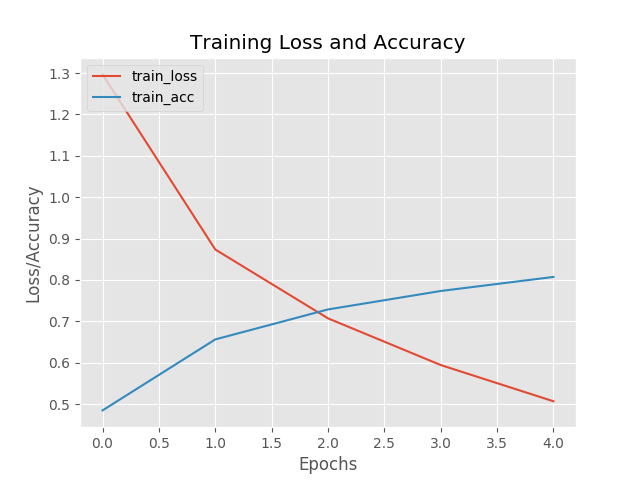
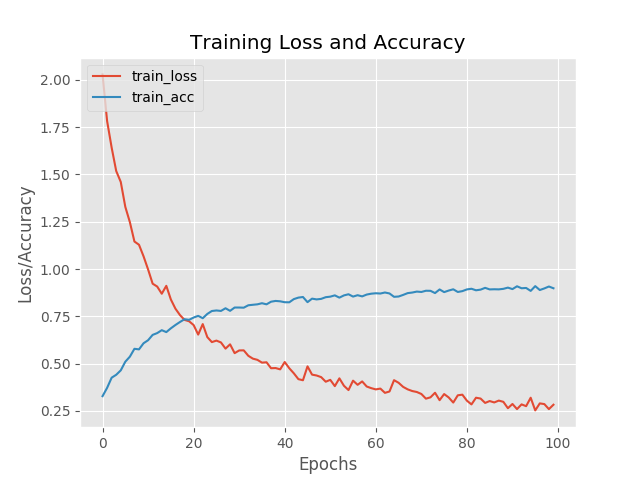
modifying neural network and add results of a new model

diff --git a/neuralNetwork/smallervggnet.py b/neuralNetwork/smallervggnet.py
@@ -1,0 +1,62 @@
+from keras.models import Sequential
+from keras.layers.normalization import BatchNormalization
+from keras.layers.convolutional import Conv2D
+from keras.layers.convolutional import MaxPooling2D
+from keras.layers.core import Activation
+from keras.layers.core import Flatten
+from keras.layers.core import Dropout
+from keras.layers.core import Dense
+from keras import backend as K
+
+class SmallerVGGNet:
+
+  @staticmethod
+  def build(width, height, depth, classes):
+
+    #initialize the model for 'channel last' configuration
+    model = Sequential()
+    inputShape = (height, width, depth)
+    chanDim = -1
+
+    #initialize the model for 'channel first' configuration
+    if (K.image_data_format() == 'channels_first'):
+      inputShape = (depth, height, width)
+      chanDim = 1
+
+    # adding layes
+    # convolution -> ReLu -> Pooling
+    # 32 filters with 3x3 features
+    model.add(Conv2D(32,(3,3), padding="same", input_shape=inputShape)) # 96 x 96 x 32
+    model.add(Activation("relu"))
+    model.add(BatchNormalization(axis=chanDim))
+    model.add(MaxPooling2D(pool_size=(2,2)))
+    model.add(Dropout(0.35))
+    # Convolution -> ReLu -> Convolution -> ReLu -> Pooling
+    model.add(Conv2D(64, (3,3), padding='same')) # 48 x48 x 64 
+    model.add(Activation('relu'))
+    model.add(BatchNormalization(axis=chanDim))
+    model.add(Conv2D(64, (3,3), padding='same')) 
+    model.add(Activation('relu'))
+    model.add(BatchNormalization(axis=chanDim))
+    model.add(MaxPooling2D(pool_size=(2,2)))
+    model.add(Dropout(0.45))
+    # Convolution -> ReLu -> Convolution -> ReLu -> Pooling
+    model.add(Conv2D(128, (3,3), padding="same")) # 24 x 24 x 128
+    model.add(Activation('relu'))
+    model.add(BatchNormalization(axis=chanDim))
+    model.add(Conv2D(128, (3,3), padding='same'))
+    model.add(Activation('relu'))
+    model.add(BatchNormalization(axis=chanDim))
+    model.add(MaxPooling2D(pool_size=(2,2)))
+    model.add(Dropout(0.50))
+    # seting our fully connected layer
+    model.add(Flatten())
+    model.add(Dense(1024))
+    model.add(Activation('relu'))
+    model.add(BatchNormalization())
+    model.add(Dropout(0.55))
+    # softmax classifier
+    model.add(Dense(classes))
+    model.add(Activation('softmax'))
+
+    return model

diff --git a/train.py b/train.py
@@ -7,7 +7,7 @@ from keras.preprocessing.image import img_to_array
 from sklearn.preprocessing import LabelBinarizer
 from sklearn.model_selection import train_test_split
 from sklearn.metrics import confusion_matrix
-from pyimagesearch.smallervggnet import SmallerVGGNet
+from neuralNetwork.smallervggnet import SmallerVGGNet
 from imutils import paths
 import matplotlib.pyplot as plt
 import numpy as np
@@ -29,7 +29,7 @@ args = vars(ap.parse_args())
 
 ''' initialize the number of epochs to train for, initial learning rate,
  batch size, and image dimensions '''
-EPOCHS = 50
+EPOCHS = 100
 INIT_LR = 1e-3 # the default value for the Adam optimizer
 BS = 32
 IMAGE_DIMS = (96,96,1)
@@ -39,7 +39,7 @@ labels = []
 
 print ("[INFO] loading images...")
 imagePaths = sorted(list(paths.list_images(args['dataset'])))
-random.seed(42)
+random.seed(69)
 random.shuffle(imagePaths)
 
 for imagePath in imagePaths:
@@ -66,7 +66,7 @@ labels = lb.fit_transform(labels)
 (train_x, test_x, train_y, test_y) = train_test_split(data, labels, test_size=0.2, random_state=42)
 
 # construct the image generator for data augmentation
-augmentation = ImageDataGenerator(rotation_range=30, width_shift_range=0.1,
+augmentation = ImageDataGenerator(rotation_range=20, width_shift_range=0.1,
 height_shift_range=0.1, shear_range=0.2, zoom_range=0.2, horizontal_flip=True, 
 fill_mode='nearest')
 
@@ -78,7 +78,7 @@ model.compile(loss='categorical_crossentropy', optimizer=opt, metrics=['accuracy
 
 print("[INFO] training network...")
 H = model.fit_generator(augmentation.flow(train_x, train_y, batch_size=BS),
-validation_data=(test_x,test_y),steps_per_epoch=len(train_x) // BS, epochs=EPOCHS, verbose=1)
+validation_data=(test_x,test_y),steps_per_epoch=(len(train_x) // BS), epochs=EPOCHS, verbose=1)
 
 # saving the model to disk
 print("[INFO] serializing network...")

diff --git a/classifier.py b/classifier.py
@@ -1,12 +1,9 @@
 from keras.preprocessing.image import img_to_array
 from keras.models import load_model
-from PIL import Image, ImageFont, ImageDraw, ImageOps
 import numpy as np
 import argparse
-import imutils
 import pickle
 import cv2
-import os
 
 ap = argparse.ArgumentParser()
 ap.add_argument('-m', '--model', required=True, help='path to tarined model')
@@ -17,8 +14,6 @@ args = vars(ap.parse_args())
 print ("[INFO] loading image...")
 image = cv2.imread(args["image"])
 image = cv2.cvtColor(image, cv2.COLOR_BGR2GRAY)
-img = Image.open(args['image'])
-output = img.copy()
 # pre-process the image for classification
 image = cv2.resize(image, (96,96))
 image = image.astype('float') / 255.0
@@ -33,14 +28,7 @@ print('[INFO] classifying image...')
 prob = model.predict(image)[0]
 index = np.argmax(prob)
 label = lb.classes_[index]
-
-print('[INFO] building the label and drawing the label on the image')
 label = '{}: {:.2f}%'.format(label, (prob[index]* 100))
-draw = ImageDraw.Draw(output)
-font = ImageFont.truetype("sans-serif.ttf", 36)
-draw.text((0,0), label, (0,0,0), font=font)
-
 print ('[INFO] {}'.format(label))
-print('[INFO] show the output image...')
-output.show()
+
 
